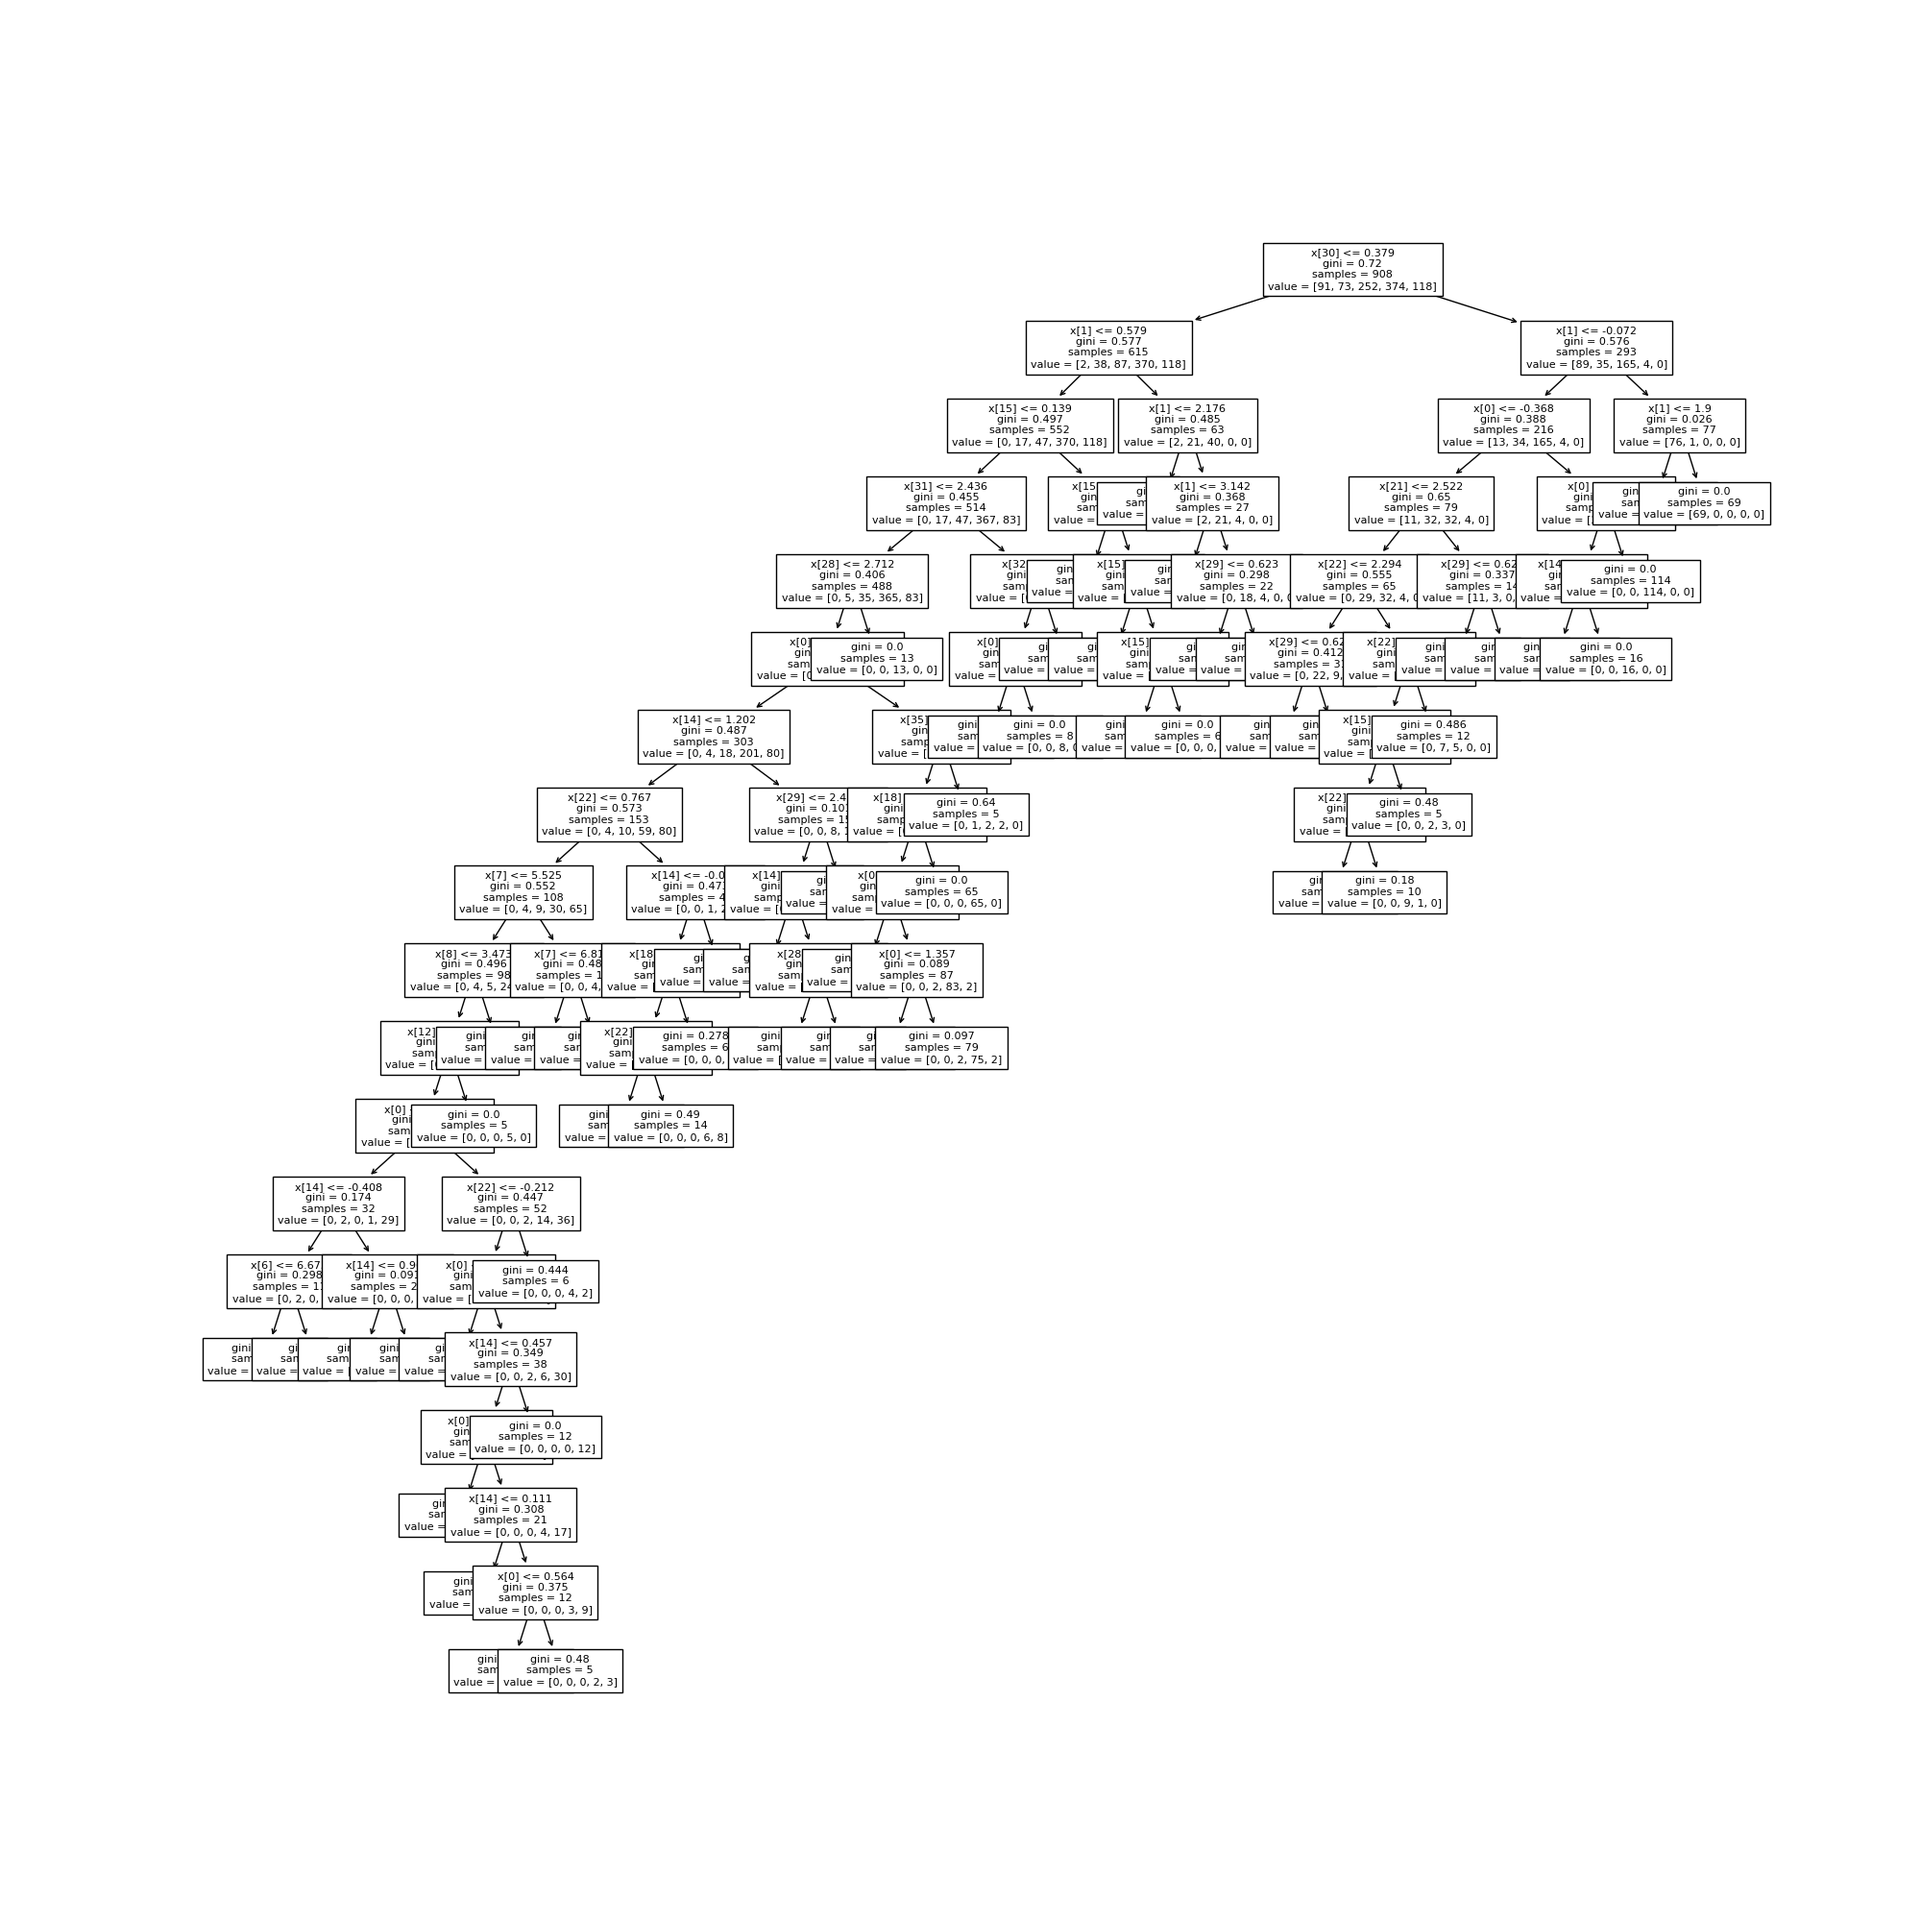
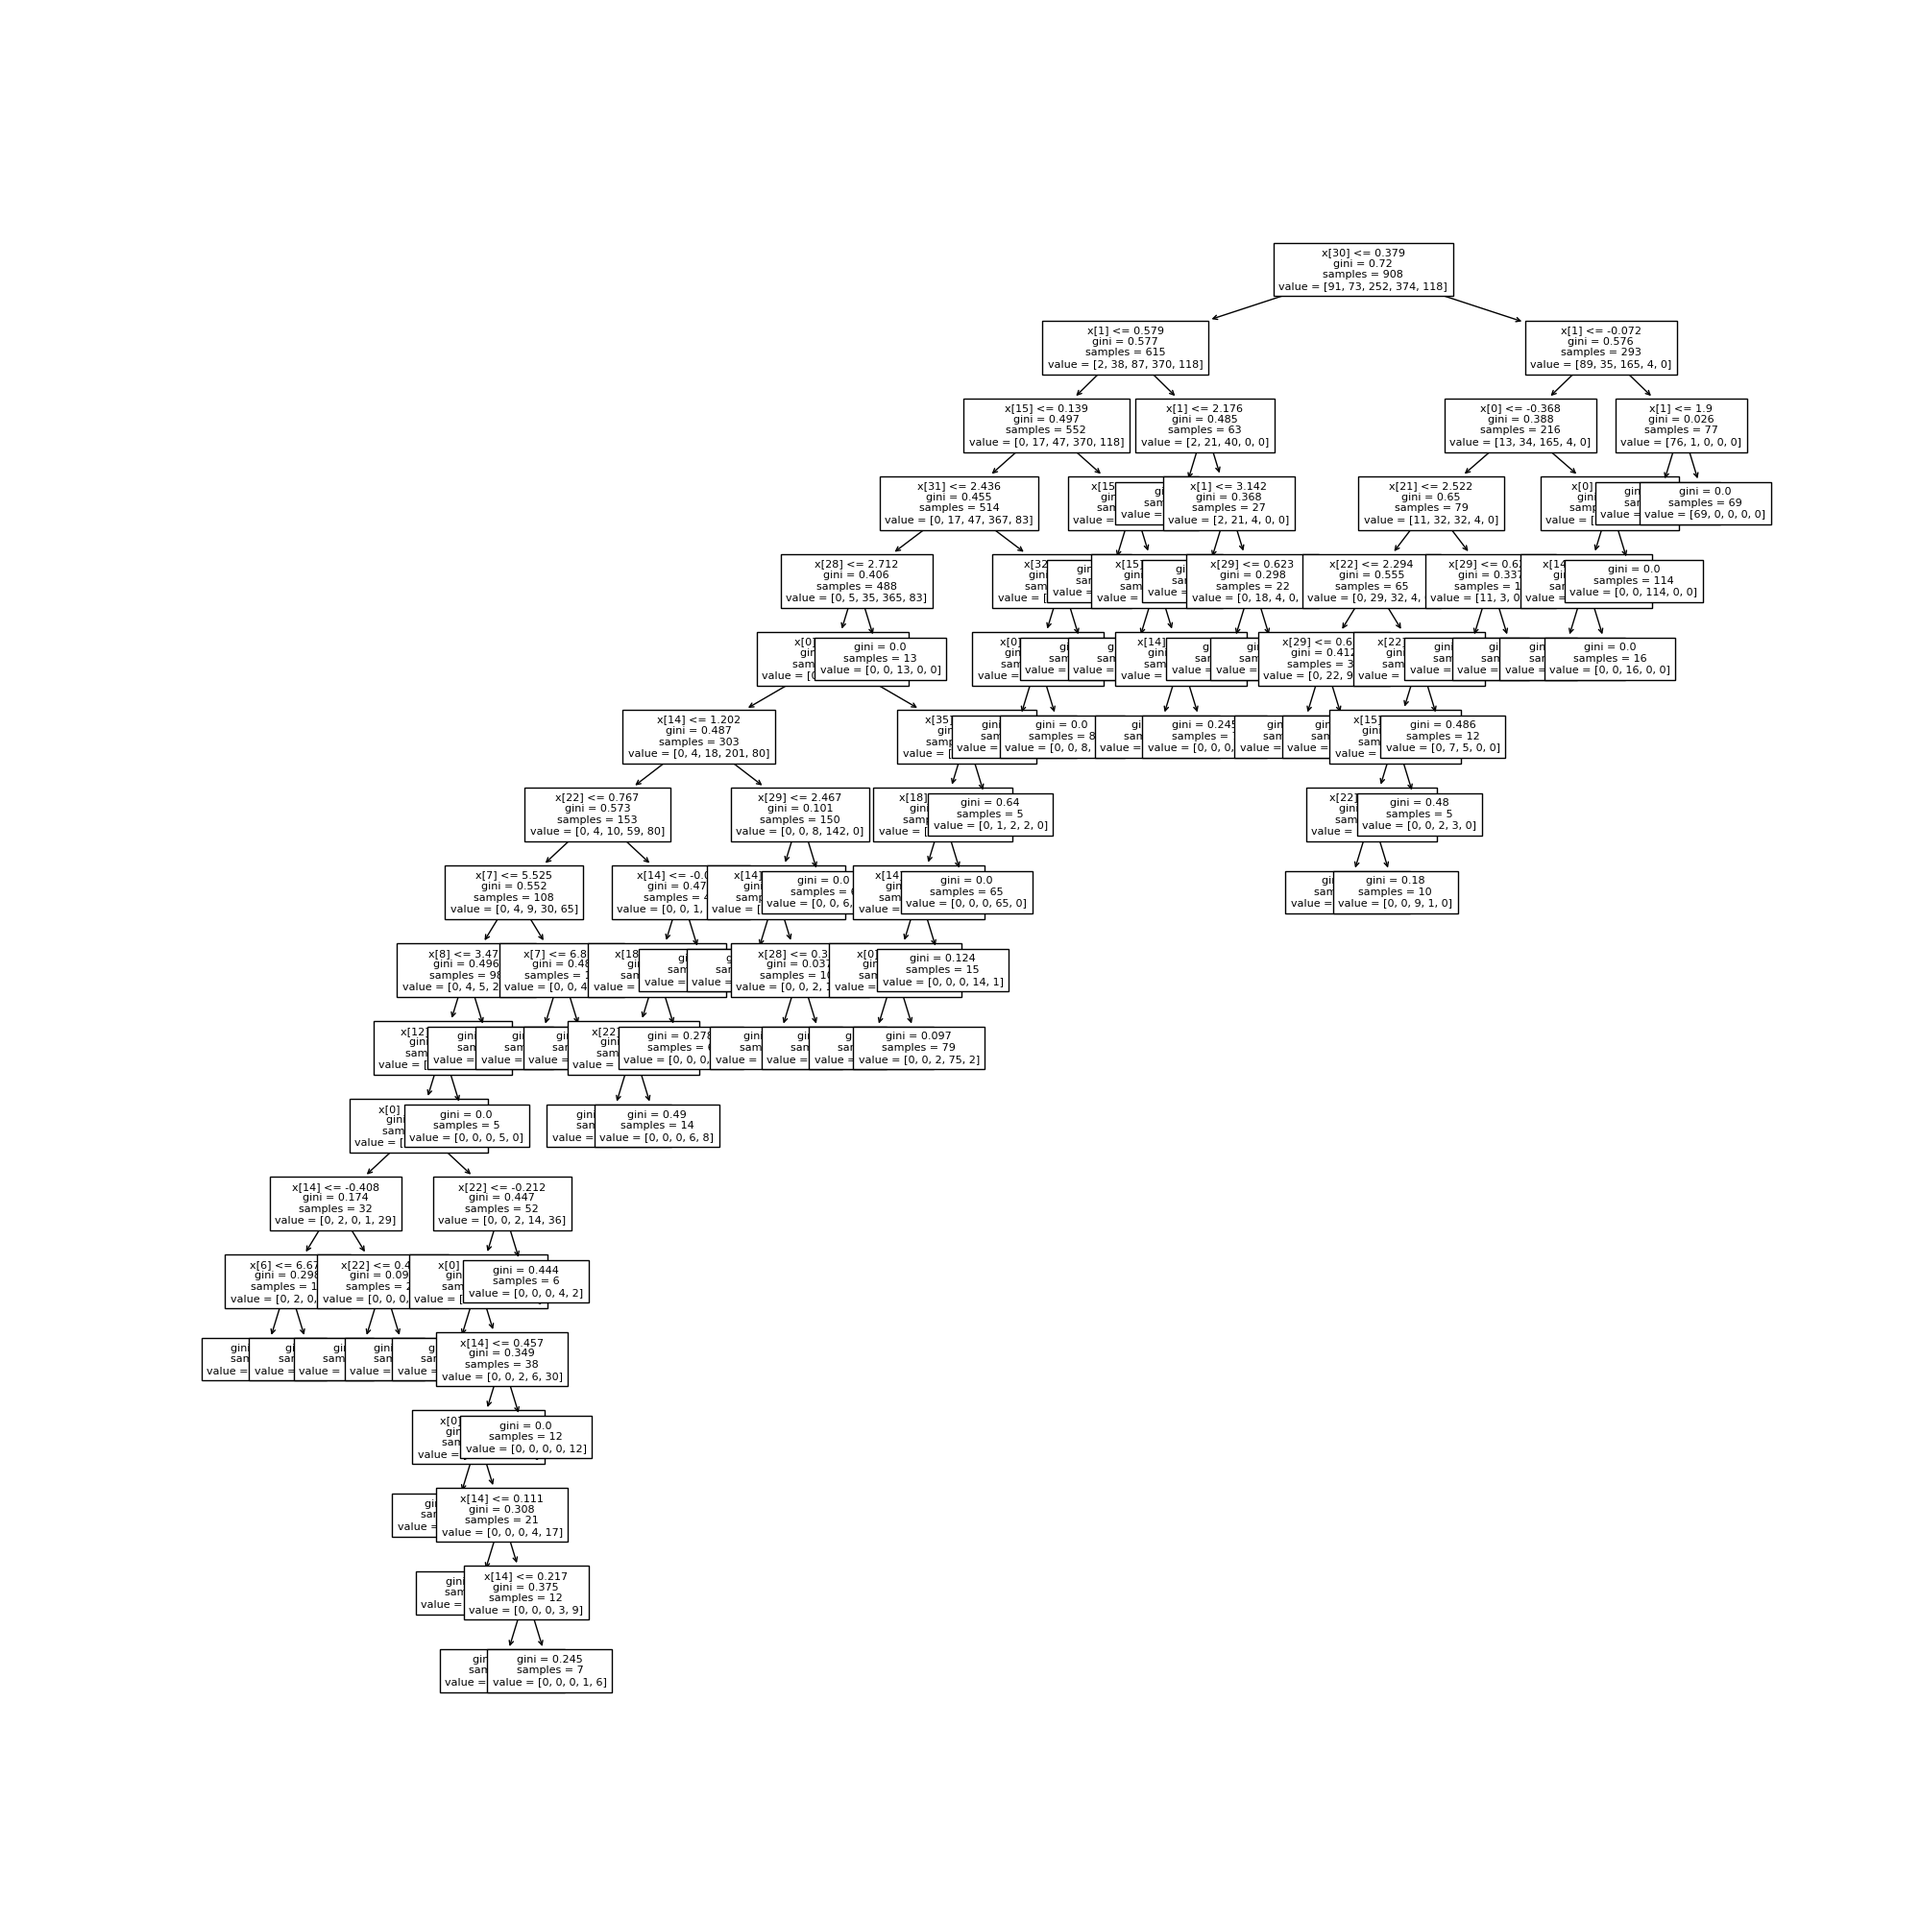
commit

Changed region(s): [[0.124, 0.155, 0.93, 0.899], [0.651, 0.124, 0.775, 0.155]]

diff --git a/templates/graphs.html b/templates/graphs.html
@@ -1,10 +1,21 @@
+
 <!DOCTYPE html>
 <html>
   <head>
         <title>Graphs</title>
+        <link rel="stylesheet" type="text/css" href="styles.css">
         <style>
 
         /* Styles spécifiques au header */
+        div{
+            margin-top: 1rem;
+        }
+        .card{
+            margin-left: 0.6rem;
+            box-shadow: rgba(0, 0, 0, 0.35) 0px 5px 15px;
+            display:flex;    width: 98%;
+            justify-content: center;
+        }
         header {
             background-color: #333;
             padding: 20px;
@@ -13,6 +24,10 @@
 
         h1 {
             margin: 0;
+        }
+
+        h2 {
+            font-size: 0.5rem;
         }
 
 
@@ -39,24 +54,43 @@
 <body>
     <h1>Graphs</h1>
     <h2>Bar Graph</h2>
-    <div style="display:flex">
+    <div class="card" style="display:flex">
         <img style="width: 33%; height: 50%;" src="{{ url_for('static', filename='bar_type.png') }}" alt="Bar Graph">
         <img style="width: 33%; height: 50%;" src="{{ url_for('static', filename='bar_washing.png') }}" alt="Bar Graph">
         <img style="width: 33%; height: 50%;" src="{{ url_for('static', filename='bar_drying.png') }}" alt="Bar Graph">
     </div>
 
-    <h2>Distribution du label EI</h2>
-    <img style="width: 40%; height: 50%;" src="{{ url_for('static', filename='pie_chart.png') }}" alt="Box Plot">
+    <div>
+        <h2>Distribution du label EI</h2>
+        <img class="card" style="width: 40%; height: 50%;" src="{{ url_for('static', filename='pie.png') }}" alt="Box Plot">
+    </div>
 
+    <div class="card">
+        <h2>Matrice de correlation</h2>
+        <img style="width: 40%; height: 50%;" src="{{ url_for('static', filename='cor_matrix.png') }}" alt="Box Plot">
 
-    <h2>Box Plot</h2>
-    <img style="width: 40%; height: 50%;" src="{{ url_for('static', filename='boxplot_category.png') }}" alt="Box Plot">
+        <h2>Visualiser l'arbre de decision</h2>
+        <img style="width: 40%; height: 50%;" src="{{ url_for('static', filename='arbre.png') }}" alt="Scatter Plot">
+    </div>
 
-    <h2>Correlation graph</h2>
-    <img style="width: 40%; height: 50%;" src="{{ url_for('static', filename='cor.png') }}" alt="Scatter Plot">
+    <div class="card">
+        <h2>le graphe des correlations</h2>
+        <img style="width: 40%; height: 50%;" src="{{ url_for('static', filename='correlation_plot.png') }}" alt="Explained Variance Ratio">
 
-    <h2>Explained Variance Ratio</h2>
-    <img src="{{ url_for('static', filename='explained_variance.png') }}" alt="Explained Variance Ratio">
+        <h2>Diagramme à barres</h2>
+        <img style="width: 40%; height: 50%;" src="{{ url_for('static', filename='score.png') }}" alt="Explained Variance Ratio">
+
+    </div>
+
+    <div class="card">
+        <h2>Visualiser matrice de confusion</h2>
+        <img style="width: 40%; height: 50%;" src="{{ url_for('static', filename='confusion_matrix.png') }}" alt="Explained Variance Ratio">
+
+        <h2></h2>
+        <img style="width: 40%; height: 50%;">
+
+    </div>
+
 </body>
 
  <footer>

diff --git a/templates/styles.css b/templates/styles.css
@@ -1,0 +1,42 @@
+/* styles.css */
+
+.card{
+    box-shadow: rgba(149, 157, 165, 0.2) 0px 8px 24px;
+}
+
+body {
+    font-family: Arial, sans-serif;
+    margin: 0;
+    padding: 0;
+  }
+
+  header {
+    background-color: #f2f2f2;
+    padding: 20px;
+  }
+
+  nav ul {
+    list-style-type: none;
+    margin: 0;
+    padding: 0;
+  }
+
+  nav ul li {
+    display: inline;
+    margin-right: 10px;
+  }
+
+  nav ul li a {
+    text-decoration: none;
+    color: #333;
+  }
+
+  section {
+    padding: 20px;
+  }
+
+  footer {
+    background-color: #f2f2f2;
+    padding: 10px;
+    text-align: center;
+  }

diff --git a/projet_mode_py.py b/projet_mode_py.py
@@ -402,23 +402,24 @@ print('Accuracy:', round(accuracy_score(y_test, y_pred),2))
 
 On va maintenant utiliser la variable "importance des caractéristiques" pour afficher les scores d'importance des variables explicatives et les visualizer dans un graphique à barres horizontales :
 """
-
 # visualiser les scores des caractéristiques
 feature_scores = pd.Series(rfc.feature_importances_, index=features).sort_values(ascending=False)
 
-# Créer d'un diagramme à barres
-plt.figure(figsize=(12,10))
-sns.barplot(x=feature_scores, y=feature_scores.index)
 
-# Ajouter des étiquettes au graphique
-plt.xlabel('Feature Importance Score')
-plt.ylabel('Features')
+def score():
+    # Créer d'un diagramme à barres
+    plt.figure(figsize=(12,10))
+    sns.barplot(x=feature_scores, y=feature_scores.index)
 
-# Ajouter un titre au graphique
-plt.title("Variables les plus importantes de la Forêt Aléatoire", fontsize=15, fontweight='bold')
+    # Ajouter des étiquettes au graphique
+    plt.xlabel('Feature Importance Score')
+    plt.ylabel('Features')
 
-# Visualize the graph
-#plt.show()
+    # Ajouter un titre au graphique
+    plt.title("Variables les plus importantes de la Forêt Aléatoire", fontsize=15, fontweight='bold')
+
+    # Visualize the graph
+    #plt.show()
 
 """**Nous allons maintenant voir si notre modèle s'amèlieure encore plus si on garde que les variables qui nous sont vraiment intéressantes pour le modèle**, on va dire les 28 variables dont le feature_scores est visible sur le graphique ci-dessus :"""
 
@@ -457,11 +458,12 @@ labels = [1, 2, 3, 4, 5]
 # Créer une matrice de confusion
 cm = confusion_matrix(y_test, y_pred, labels=labels)
 
-# Visualiser matrice de confusion
-cm_display = ConfusionMatrixDisplay(confusion_matrix=cm, display_labels=labels)
-cm_display.plot()
-plt.title("Matrice de confusion du modèle de Forêt Aléatoire", fontweight='bold')
-#plt.show()
+def  matrice_confusion():
+    # Visualiser matrice de confusion
+    cm_display = ConfusionMatrixDisplay(confusion_matrix=cm, display_labels=labels)
+    cm_display.plot()
+    plt.title("Matrice de confusion du modèle de Forêt Aléatoire", fontweight='bold')
+    #plt.show()
 
 """# Conclusion
 
@@ -486,6 +488,13 @@ plt.savefig('static/scree_plot.png')
 
 arbre()
 plt.savefig('static/arbre.png')
+
+score()
+plt.savefig('static/score.png')
+
+matrice_confusion()
+plt.savefig('static/confusion_matrix.png')
+
 
 correlation_graph(pca, [0, 1], features)
 plt.savefig('static/correlation_plot.png')
